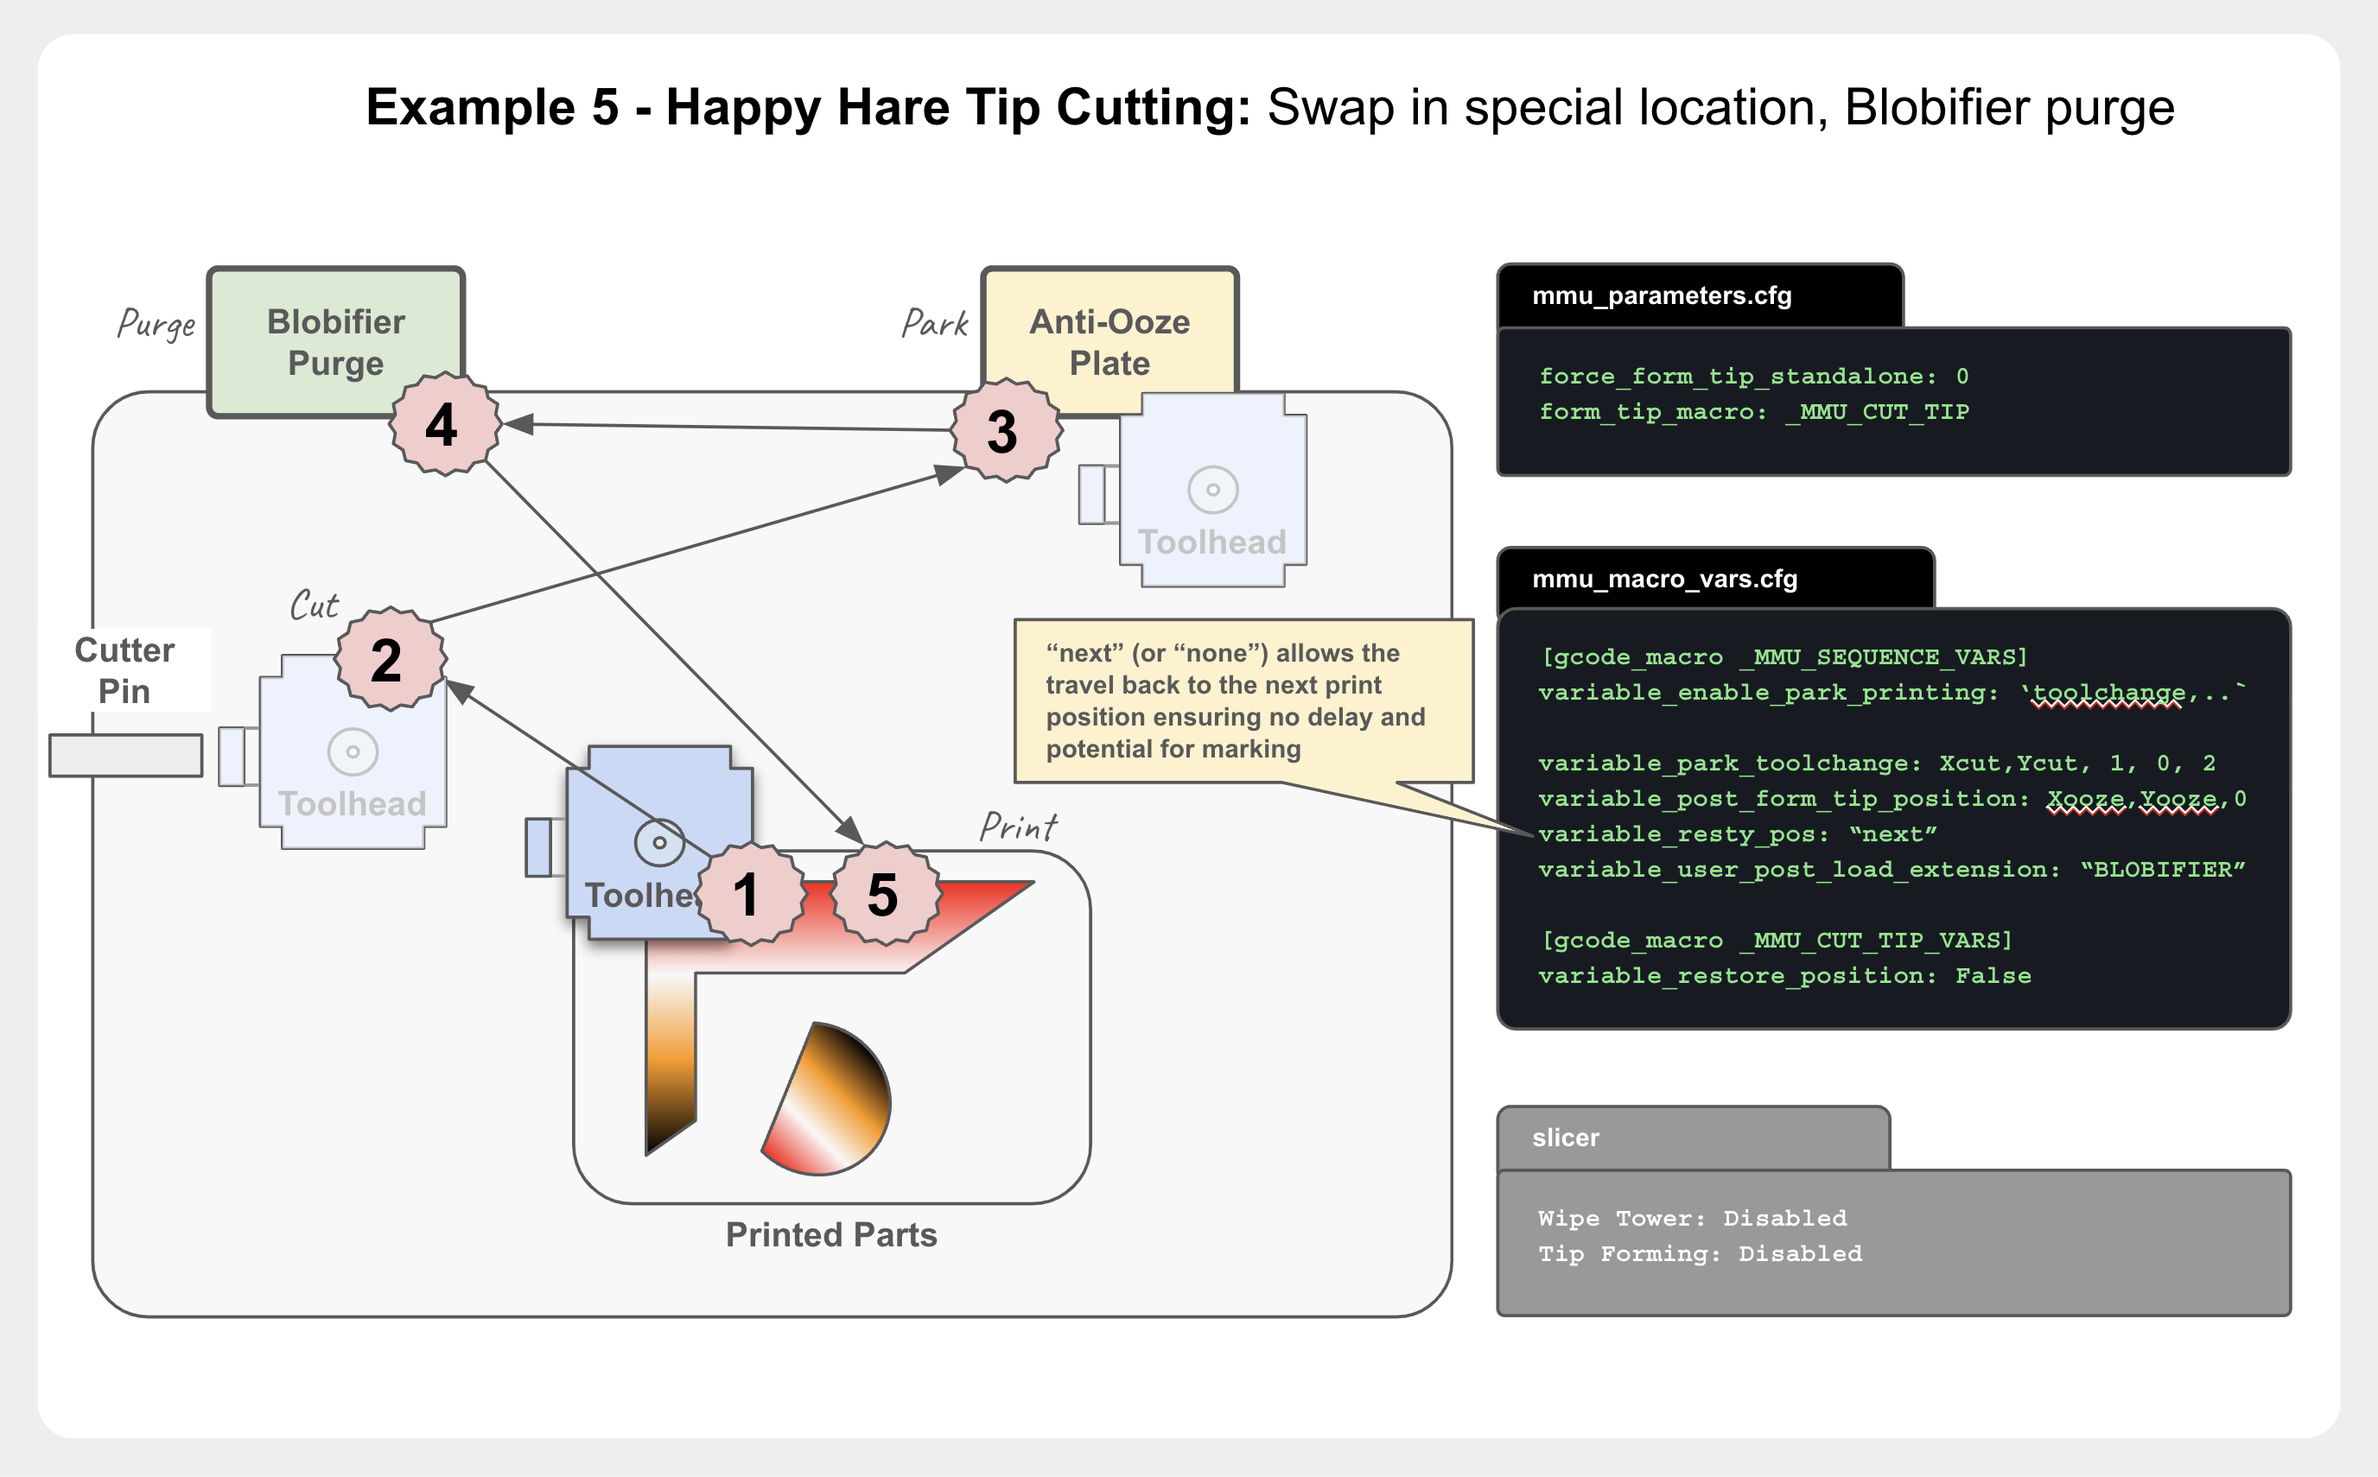
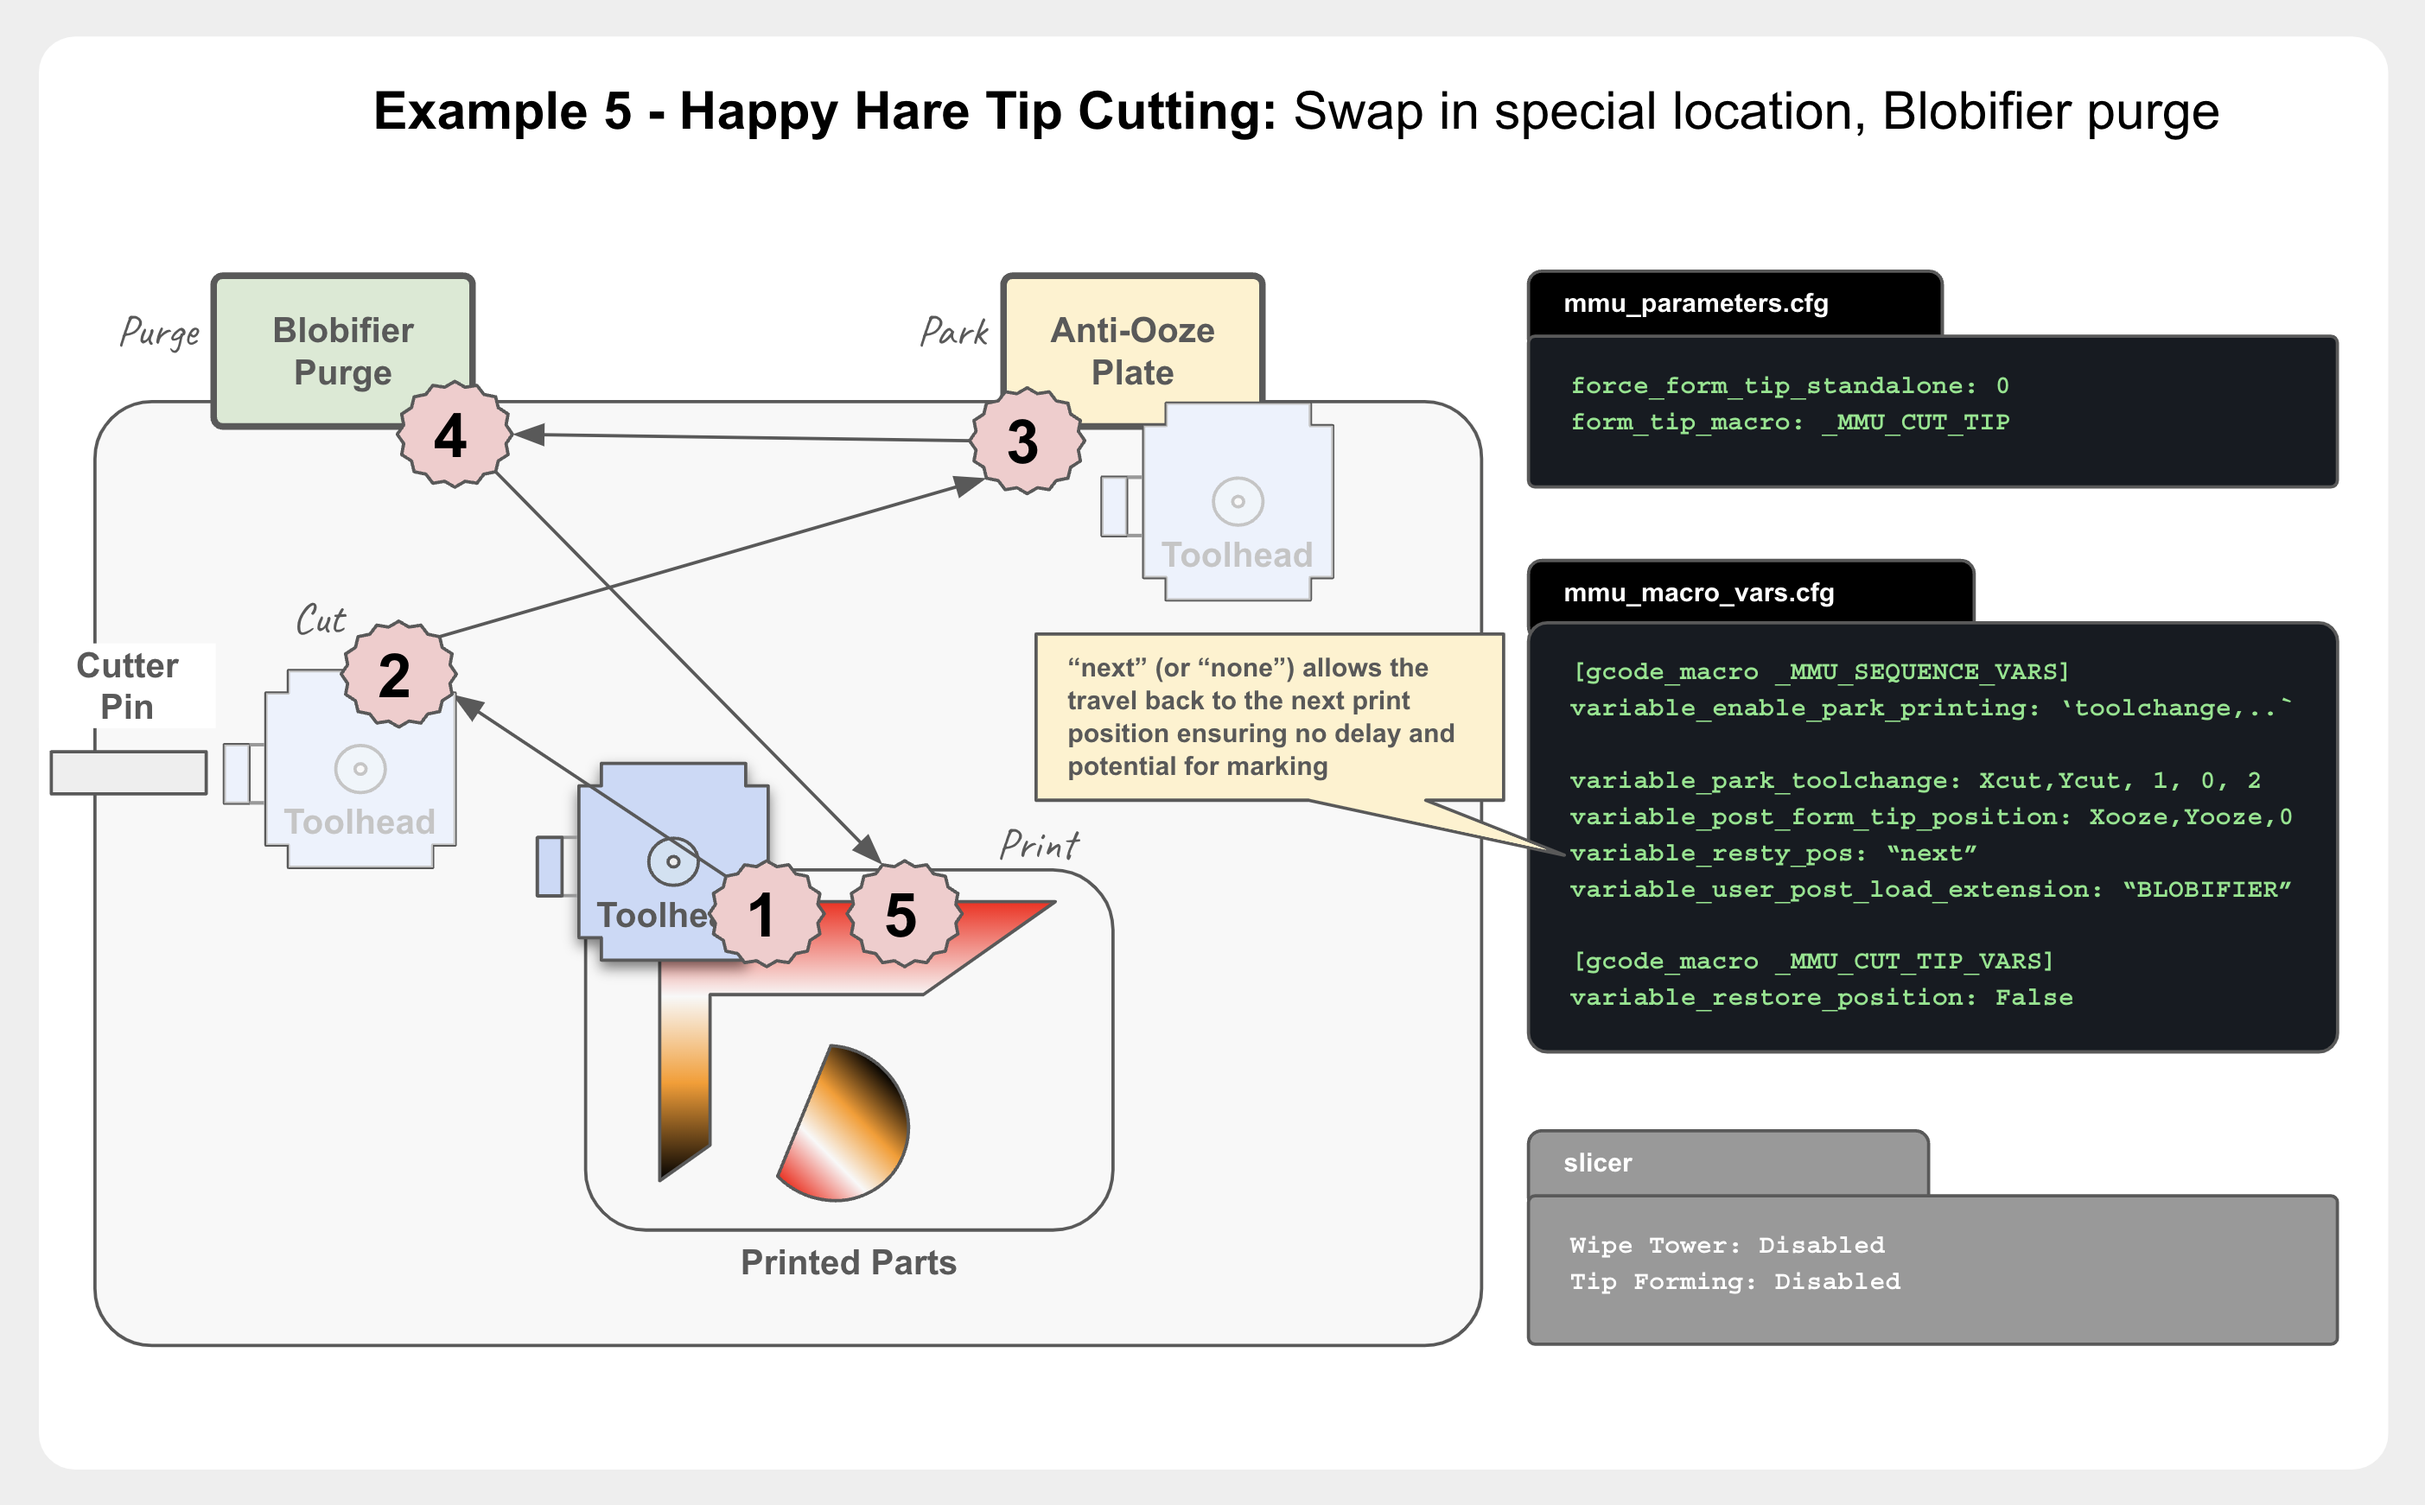
Fixed spellcheck on images; fixed typos

diff --git a/Toolchange-Movement.md b/Toolchange-Movement.md
@@ -40,20 +40,20 @@ List of the operations that should result in toolhead parking when not printing,
 `variable_enabled_park_disabled`
 There is really no reason to disable Happy Hare once installed, because you can use the bypass to avoid MMU control howwever if you are using the recommended "client_macros", then when Happy Hare is disabled (MMU ENABLE=0) you can stil configure parking on pause or cancel operations. (Note that these are the only two options that can occur)
 
-For each operation (well, 5 because toolchange, runout, load & unload are all groups as type of "toolchange") the parking move is defined with 5 parameters: the x,y coordinates you wish to park at; the z-hop; the optional ramp of z-hop move; and the retraction length.
+For each operation (well, 5 because toolchange, load & unload are all grouped as type of "toolchange") the parking move is defined with 5 parameters: the x,y coordinates you wish to park at; the z-hop; the optional ramp of z-hop move; and the retraction length.
 E.g.
 ```
 variable_park_pause: 50, 50, 5, 10, 2
 ```
-Defines a parking position (50,50) with a z-hop of 5mm above the print for pause operations. The z-hop will include a rapid 10mm horizontal movement as it lifts to help break any stringing. The extruder will retract 2mm. To only z-hop define the x,y as -1,-1.  Thus parking move that does nothing would be `-1,-1,0,0,0`.
+Defines a parking position (50,50) with a z-hop of 5mm above the print for pause operations. The z-hop will include a rapid 10mm horizontal movement as it lifts to help break any stringing. The extruder will retract 2mm. To only z-hop define the x,y as -1,-1.  Thus the parking move that does nothing would be `-1,-1,0,0,0`.
 
-One of the features of Happy Hare's parking moves is that they define a "toolhead movement plane" above the print (even when sequentially printing!). This plane is generally the current z-height plus the z-hop, but that absolute minimum height for movement can be set with:
+One of the features of Happy Hare's parking moves is that they define a "toolhead movement plane" above the print (even when sequentially printing!). This plane is generally the current z-height plus the z-hop, but the absolute minimum height for movement can be set with:
 ```
 variable_min_toolchange_z: 1.0        ; The absolute minimum saftey floor
 ```
-Further if sequentially printing, the movement plane will be above the tallest park
+Further if sequentially printing, the movement plane will be above the tallest part.
 
-Finally the speed of travel is set with these two settings, where `park_lift_speed` is used when the move is only in the z-direction:
+Finally the speed of travel is set with these two settings, where `park_lift_speed` is only used when the move is only in the z-direction:
 ```
 variable_park_travel_speed: 200       ; Speed for any travel movement XY(Z) in mm/s
 variable_park_lift_speed: 15          ; Z-only travel speed in mm/s
@@ -64,7 +64,7 @@ variable_enable_park_printing: `cancel`
 variable_park_cancel: -1, -1, 20, 0, 5
 ```
 > [!IMPORTANT] 
-> You almost certainly want to define a parking position for the `pause` operation as this is called when the mmu encounters an error. You can place your toolhead in a convenient location away from your print while you fix the problem. Note that the parking movement of any MMU operation (e.g. MMU_UNLOAD, MMU_LOAD, Tx) invoked directly when in a paused state will act in the same way as they do out of the print and subject to the same configuration.
+> You almost certainly want to define a parking position for the `pause` operation as this is called when the mmu encounters an error. You can place your toolhead in a convenient location away from your print while you fix the problem. Note that the parking movement of any MMU operation (e.g. MMU_UNLOAD, MMU_LOAD, Tx) invoked directly when in a paused state will act in the same way as they do out of the print and subject to the same "standalone" configuration.
 
 Possible context/operations:
 
@@ -78,7 +78,7 @@ Possible context/operations:
 
 ## ![#f03c15](resources/f03c15.png) ![#c5f015](resources/c5f015.png) ![#1589F0](resources/1589F0.png) Toolhead movement during toolchange
 
-Parking an movement for toolchange is usually a little more nuanced so there are additional options. Firstly, you often want to differentiate beween a regular toolchange and a runout: if you have the slicer performing the tip forming then you often won't have a parking move on "toolchange" but you will likely need one on runout because you don't want the whole toolchange to occur on the print. In addition as you build a more sophisticated toolchange procedure employing tip cutting, custom purging, nozzle parking and cleaning you may want additional parking moves during the process rather than just at the beginning and end. To those ends you have specify additional parking moves at these points in the process:
+Parking movement for toolchange is usually a little more nuanced so there are additional options. Firstly, you often want to differentiate beween a regular toolchange and a runout: if you have the slicer performing the tip forming then you often won't have a parking move on "toolchange" but you will likely need one on "runout" because you don't want the whole toolchange to occur touching the print. In addition as you build a more sophisticated toolchange procedure employing tip cutting, custom purging, nozzle parking and cleaning you may want additional parking moves during the process rather than just at the beginning and end. To accomplish this you can specify additional parking moves at these points in the process:
 ```yml
 variable_pre_unload_position    : -1, -1, 0     ; x,y,z-hop position before unloading starts
 variable_post_form_tip_position : -1, -1, 0     ; x,y,z-hop position after form/cut tip on unload
@@ -92,7 +92,7 @@ Each defines the x,y coordinates desired and optionally z-hop (note: z-hop is no
 
 No matter how many parking moves are applied the toolhead will always be correctly restored prior to continuing the print (see `variable_restore_xy_pos` options discussed later)
 
-How you setup parking depends largely on the tip forming strategy. This logic is the only duplicative component between Happy Hare and the slicer and thus you need to decided on always allow the Happy Hare to do it (recommended) or split duties: Happy Hare out of print, slicer while printing. The `force_form_tip_standalone` is an important setting that switches between these options (together with correct slicer configuration).
+How you setup parking depends largely on the tip forming strategy. Tip forming logic is the only duplicative component between Happy Hare and the slicer and thus you need to decided between always allowing Happy Hare to do it (recommended) or split duties: Happy Hare out of print, slicer while printing. The `force_form_tip_standalone` is an important setting that switches between these options (together with correct slicer configuration).
 
 Here are some common setups with an explanation of the basic configuration for each as a starting point for both tip forming and tip cutting options...
 
@@ -126,7 +126,7 @@ Firstly, although the default way to form tips is through calculated filament mo
 - Pro: Allows of addition of brush cleaning move after the new filament is loaded before returning to wipe tower, can do sequential printing
 
 Here we opt not to park on toolchange, instead allowing the CUT_TIP macro to move the toolhead and then return the toolhead back to the wipetower (`variable_restore_position`).
-<img src="Toolchange-Movement/parking_example_4.png" width="900" alt="Example 3">
+<img src="Toolchange-Movement/parking_example_3.png" width="900" alt="Example 3">
 
 #### Example 4: Cutting tip and parking in a designated park area (often over purge bucket) while making the tool change.
 - Pro: Allows of addition of brush cleaning move after the new filament is loaded before returning to wipe tower, can do sequential printing
